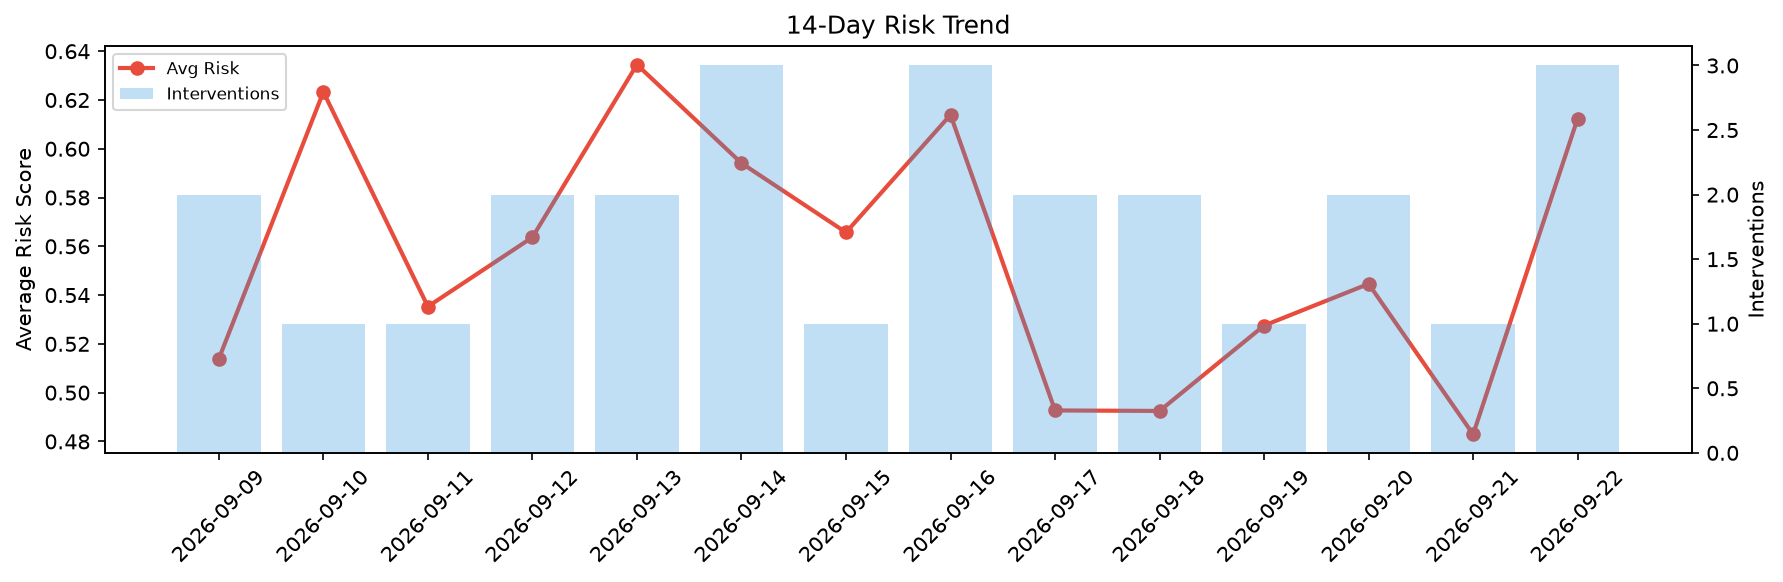
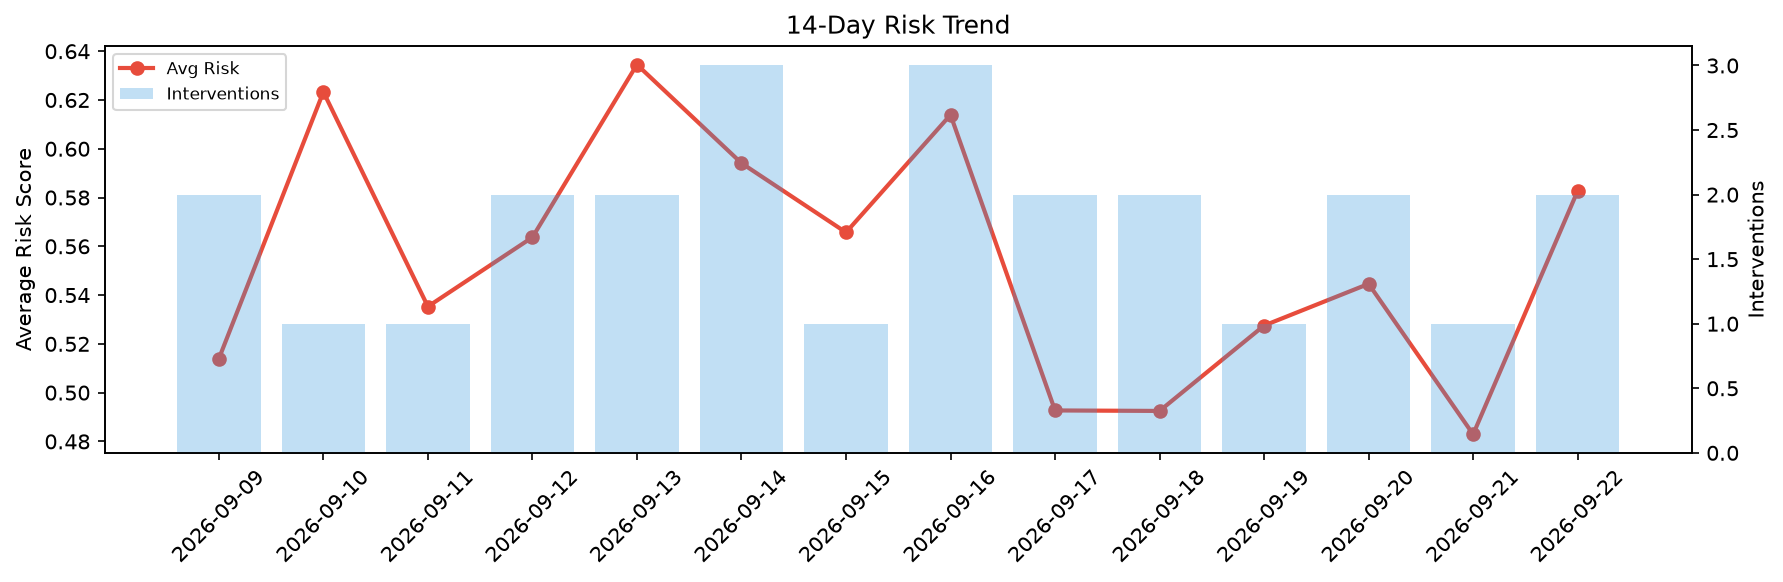
agent-improvement: daily cycle 2026-09-22T22:55

Changed region(s): [[0.8637, 0.0928, 0.9254, 0.433], [0.8329, 0.4639, 0.8637, 0.6804]]

diff --git a/logs/2026-09-22.md b/logs/2026-09-22.md
@@ -1,6 +1,6 @@
 # Agent Improvement Report — 2026-09-22
 
-**Cycle ID:** `7c7d7795` | **Avg Risk:** 0.6124 | **Interventions:** 3/4
+**Cycle ID:** `6ec6ea70` | **Avg Risk:** 0.5827 | **Interventions:** 2/4
 
 ![Dashboard](2026-09-22_dashboard.png)
 
@@ -10,18 +10,18 @@
 
 | Domain | Risk Score | Decision | Alerts |
 |--------|-----------|----------|--------|
-| code_review | 0.567 | monitor | none |
-| incident_response | 0.6287 | intervene | blast_radius |
-| data_pipeline | 0.6333 | intervene | freshness, schema_drift |
-| deployment | 0.6207 | intervene | rollback_rate, latency_p99 |
+| code_review | 0.6261 | intervene | complexity |
+| incident_response | 0.4691 | monitor | none |
+| data_pipeline | 0.5133 | monitor | schema_drift |
+| deployment | 0.7223 | intervene | canary_error |
 
 ## Delta vs Yesterday
 
 | Domain | Today | Yesterday | Change |
 |--------|-------|-----------|--------|
-| code_review | 0.567 | 0.3063 | 📈 85.1% |
-| incident_response | 0.6287 | 0.4317 | 📈 45.6% |
-| data_pipeline | 0.6333 | 0.7138 | 📉 -11.3% |
-| deployment | 0.6207 | 0.4798 | 📈 29.4% |
+| code_review | 0.6261 | 0.3063 | 📈 104.4% |
+| incident_response | 0.4691 | 0.4317 | 📈 8.7% |
+| data_pipeline | 0.5133 | 0.7138 | 📉 -28.1% |
+| deployment | 0.7223 | 0.4798 | 📈 50.5% |
 
 **Refinement:** `{'adjustment': 'tighten_thresholds', 'trend': 'degrading', 'window': 4}`
